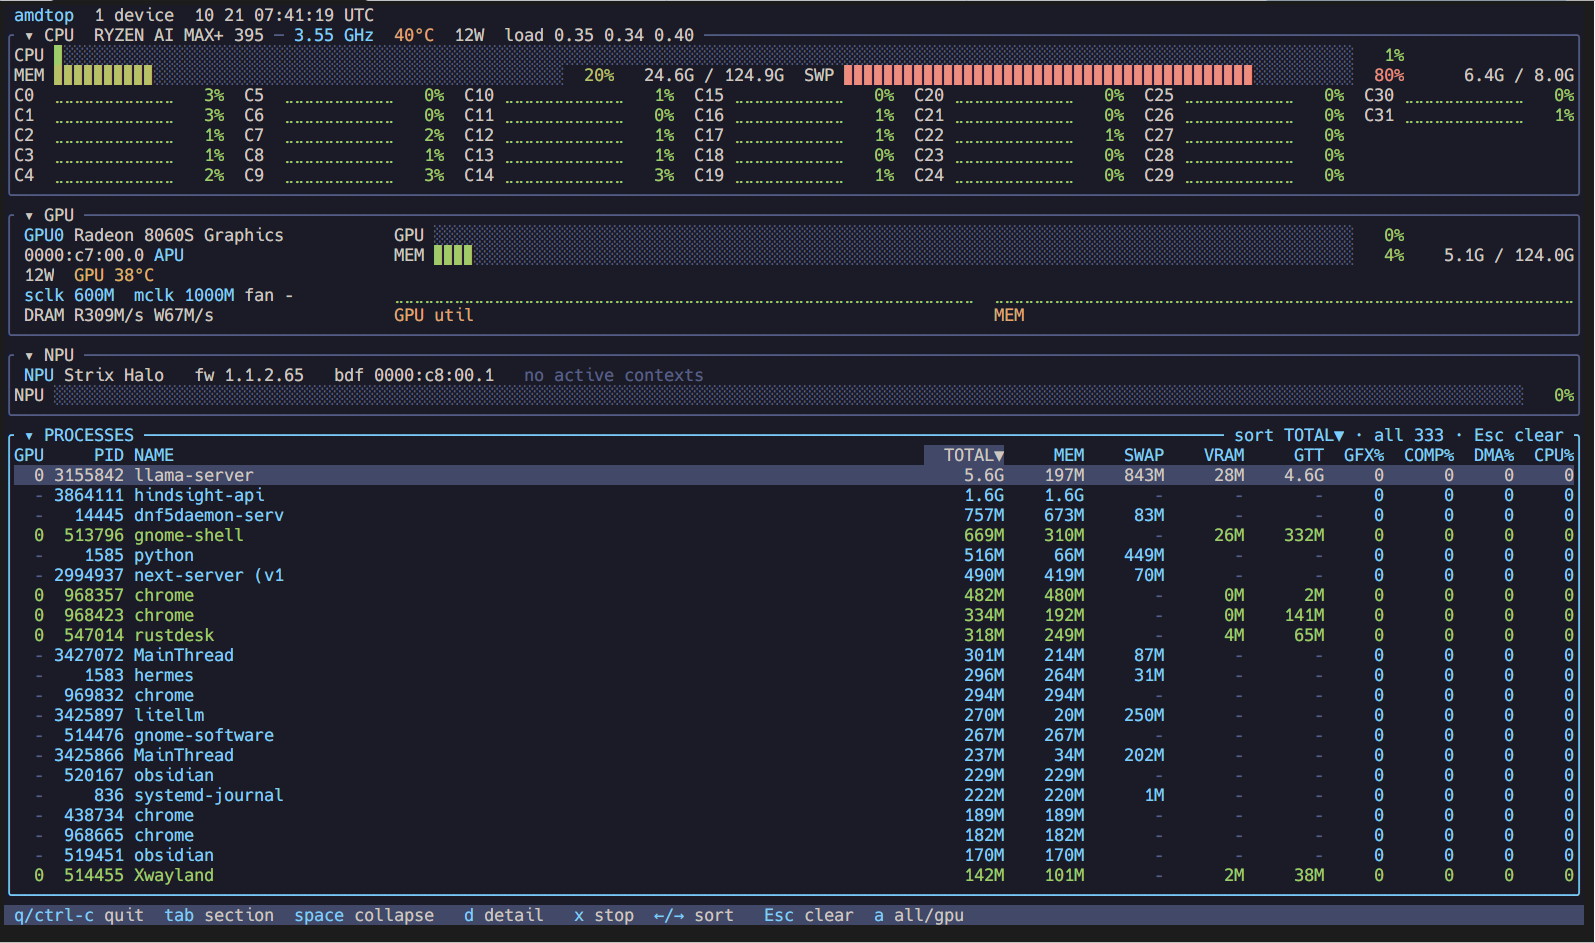
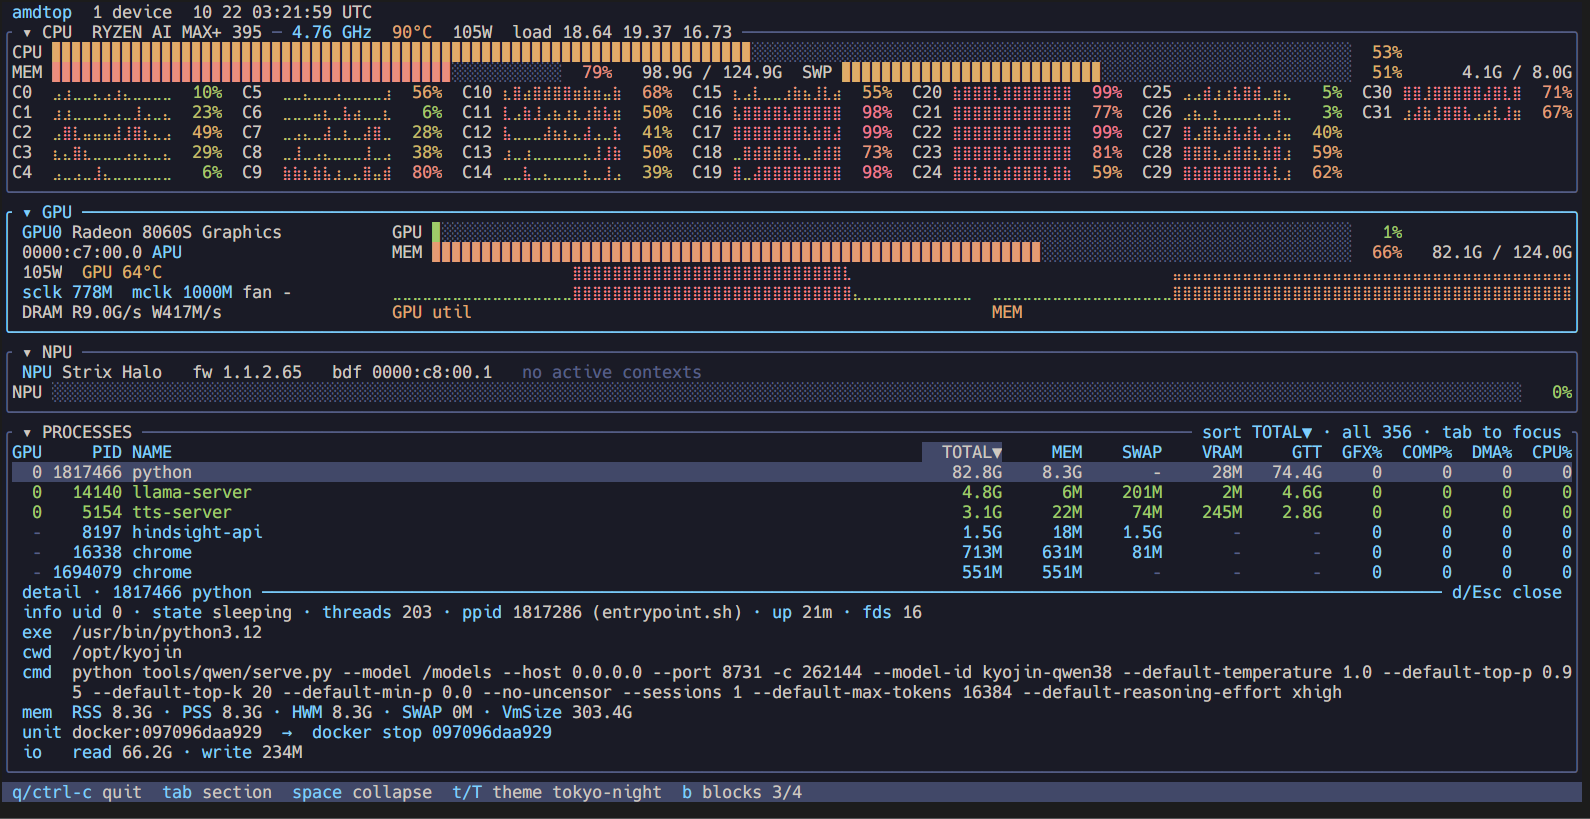
Replace the README screenshot with one that shows the detail pane
The new capture shows a root-owned container process at 82.8G TOTAL (8.3G
resident plus 74.4G of GTT) with the d detail pane open underneath, which
demonstrates both the unified-memory total and what the pane adds.

diff --git a/README.md b/README.md
@@ -8,13 +8,14 @@
 > Everything below the divider is the upstream README, kept verbatim. Only the
 > section above it describes this fork.
 
-![amdtop fork running on a Strix Halo APU: the process table is sorted by TOTAL and shows MEM, SWAP, VRAM and GTT columns, the NPU section is collapsed to two rows, and the footer lists the fork's keys](docs/screenshot-fork.png)
+![amdtop fork on a Strix Halo APU: the process table sorted by TOTAL with a root container process at 82.8G, and the detail pane open underneath showing its command line, docker unit and io counters](docs/screenshot-fork.png)
 
-*The process table sorted by `TOTAL` (`MEM + SWAP + VRAM + GTT`) on a Ryzen AI
-MAX+ 395. `llama-server` leads with 5.6G even though its resident memory is only
-197M: the rest is GPU GTT and pages compressed into zram. `hindsight-api` and
-`dnf5daemon-serv` never touch the GPU, yet they are the next largest consumers.
-The footer shows the keys this fork adds.*
+*PROCESSES sorted by `TOTAL` (`MEM + SWAP + VRAM + GTT`) on a Ryzen AI MAX+ 395,
+running as root. The leader is a model server owned by root inside a container:
+8.3G resident plus **74.4G of GTT**, i.e. unified memory the GPU driver holds
+on its behalf. A resident-only view calls it an 8G process, and without root its
+GPU memory is not even readable. Below the table, the `d` detail pane names the
+full command line, the docker unit and the exact command that manages it.*
 
 ## Why this fork exists
 
